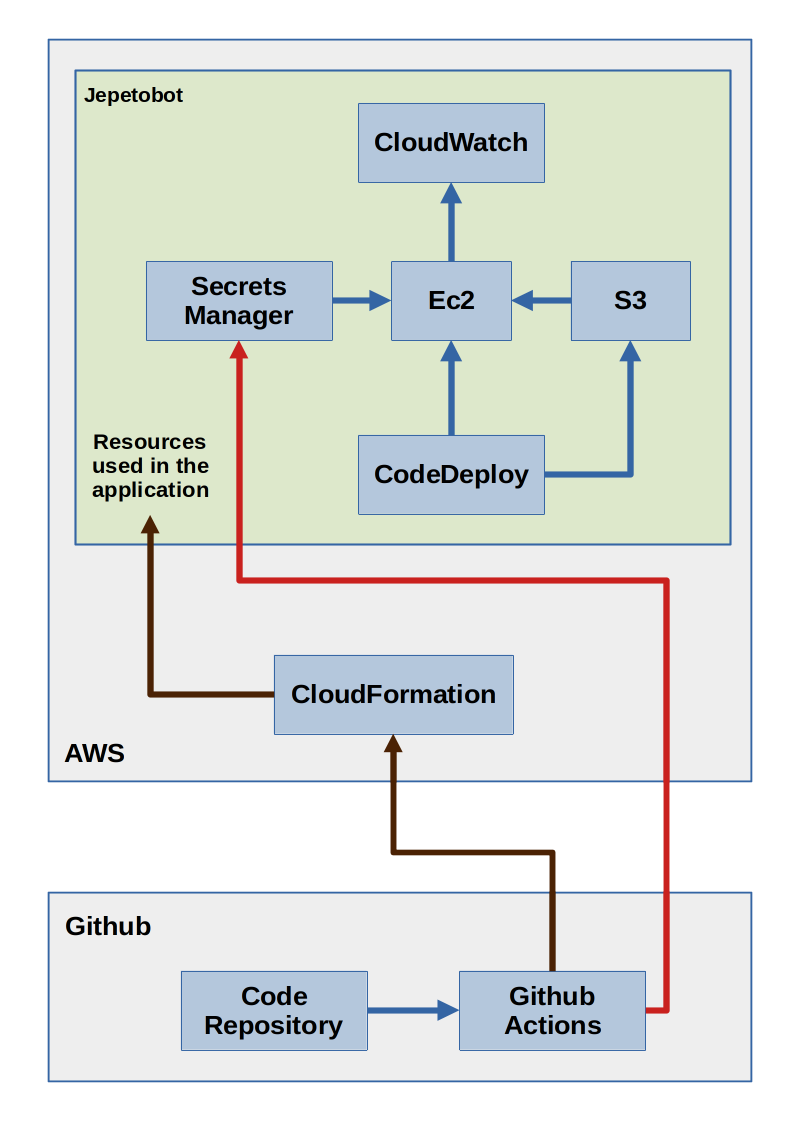
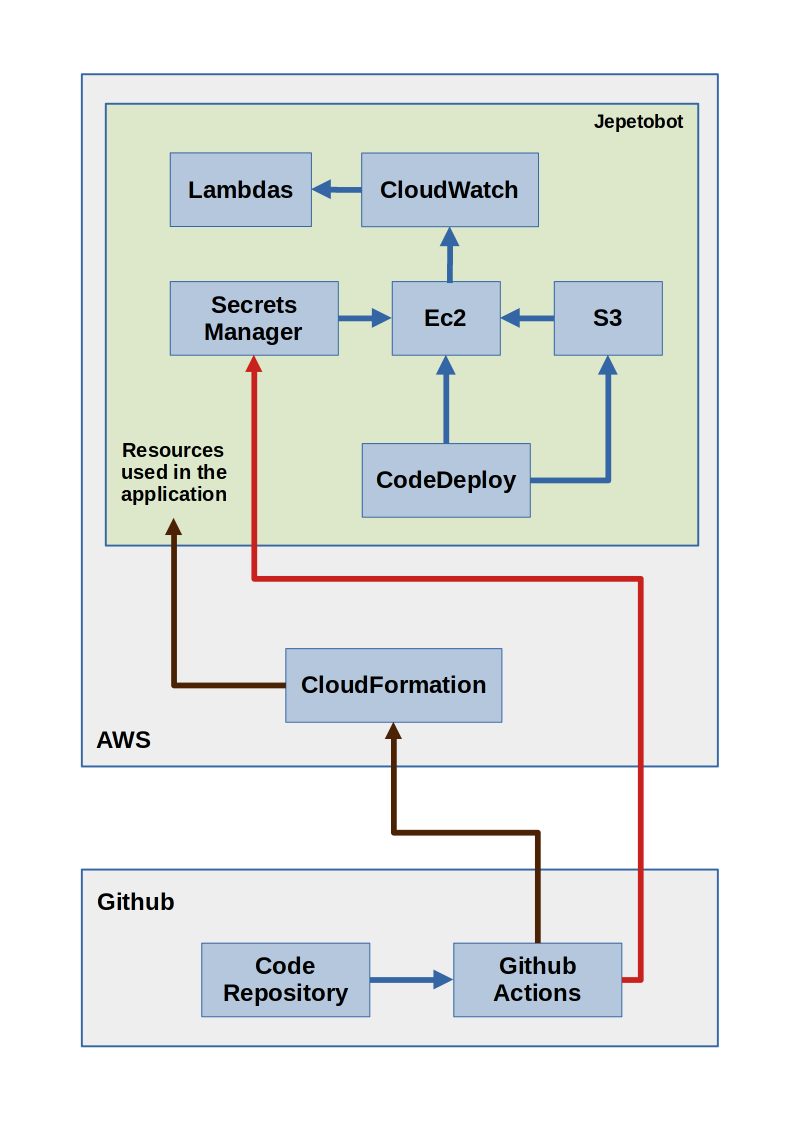
enabled scheduler via lambda

diff --git a/cdk/cdk_lambda/cdk_lambda2_stack.py b/cdk/cdk_lambda/cdk_lambda2_stack.py
@@ -10,7 +10,7 @@ from aws_cdk import (
 from constructs import Construct
 
 # Custom importation
-from env.cdk_public_env import appName
+from env.cdk_public_env import appName, stopHour, stopMinute, enableScheduler
 from env.cdk_secrets_env import envDeploy, awsRegion
 
 # MainClass
@@ -39,11 +39,22 @@ class Lambda2Stack(Stack):
                                         lambdaDataProcessed),
                                     role=lambdaRole)
         
-        # Define the event rule to execute the Lambda at time specified
-        rule = events.Rule(
-            self, appName + "_Lambda2_event2",
-            schedule=events.Schedule.cron(hour='22', minute='0'),
-        )
 
-        # Associate the Lambda as the target of the event rule
-        rule.add_target(targets.LambdaFunction(function2))
+        if enableScheduler:
+            try:
+                # Define the event rule to execute the Lambda at time specified
+                rule = events.Rule(
+                    self, appName + "_Lambda2_event2",
+                    schedule=events.Schedule.cron(hour=stopHour, 
+                                                  minute=stopMinute,
+                                                  month='*',
+                                                  week_day='MON-SUN',
+                                                  year='*'
+                                                )
+                )
+
+                # Associate the Lambda as the target of the event rule
+                rule.add_target(targets.LambdaFunction(function2))
+
+            except Exception:
+                raise Exception("Did you insert time variables?")

diff --git a/cdk/cdk_lambda/cdk_lambda1_stack.py b/cdk/cdk_lambda/cdk_lambda1_stack.py
@@ -10,7 +10,7 @@ from aws_cdk import (
 from constructs import Construct
 
 # Custom importation
-from env.cdk_public_env import appName
+from env.cdk_public_env import appName, startHour, startMinute, enableScheduler
 from env.cdk_secrets_env import envDeploy, awsRegion
 
 
@@ -40,11 +40,21 @@ class Lambda1Stack(Stack):
                                     role=lambdaRole)
 
 
-        # Define the event rule to execute the Lambda at time specified
-        rule = events.Rule(
-            self, appName + "_Lambda1_event1",
-            schedule=events.Schedule.cron(hour='07', minute='0'),
-        )
+        if enableScheduler:
+            try:
+                # Define the event rule to execute the Lambda at time specified
+                rule = events.Rule(
+                    self, appName + "_Lambda1_event1",
+                    schedule=events.Schedule.cron(hour=startHour, 
+                                                  minute=startMinute,
+                                                  month='*',
+                                                  week_day='MON-SUN',
+                                                  year='*'
+                                                )
+                )
 
-        # Associate the Lambda as the target of the event rule
-        rule.add_target(targets.LambdaFunction(function1))
+                # Associate the Lambda as the target of the event rule
+                rule.add_target(targets.LambdaFunction(function1))
+
+            except Exception:
+                raise Exception("Did you insert time variables?")

diff --git a/cdk/env/cdk_public_env.py b/cdk/env/cdk_public_env.py
@@ -1,6 +1,28 @@
 # Variables that do not need to be stored as secrets and modify the behavior of the AWS CDK
 
+
+'''
+-------------------------------------------------------
+General variables
+-------------------------------------------------------
+'''
+
 reusableStack = False
 showPublicIp = False
 appName = "Jepetobot"
 createSG = True
+
+
+'''
+-------------------------------------------------------
+Schedule auto-on and auto-off. Set enableScheduler to True for that.
+-------------------------------------------------------
+'''
+
+enableScheduler = True
+
+startHour = "07"
+startMinute = "0"
+
+stopHour = "22"
+stopMinute = "0"

diff --git a/Readme.md b/Readme.md
@@ -143,9 +143,9 @@ Currently there are three Github Actions workflows prepared to automate the clou
 
 * _[cdk_deploy_resources.yaml](https://github.com/Alexvidalcor/jepetobot/blob/master/.github/workflows/deploy_resources.yaml)_
 
-Resources | EC2 | S3| secretmanager | codedeploy | cloudwatch |
---- | --- | --- | --- | --- | --- |
-Purpose | Machine where the application is hosted | Bucket where application versions are stored | Secret Manager inside AWS | Automates the deployment of new versions of the application | Monitor logs easily |
+Resources | EC2 | S3| secretmanager | codedeploy | cloudwatch | Lambda
+--- | --- | --- | --- | --- | --- | --- |
+Purpose | Machine where the application is hosted | Bucket where application versions are stored | Secret Manager inside AWS | Automates the deployment of new versions of the application | Monitor logs easily | Trigger custom task
 
 
 * _[update_application.yaml](https://github.com/Alexvidalcor/jepetobot/blob/master/.github/workflows/update_application.yaml)_
